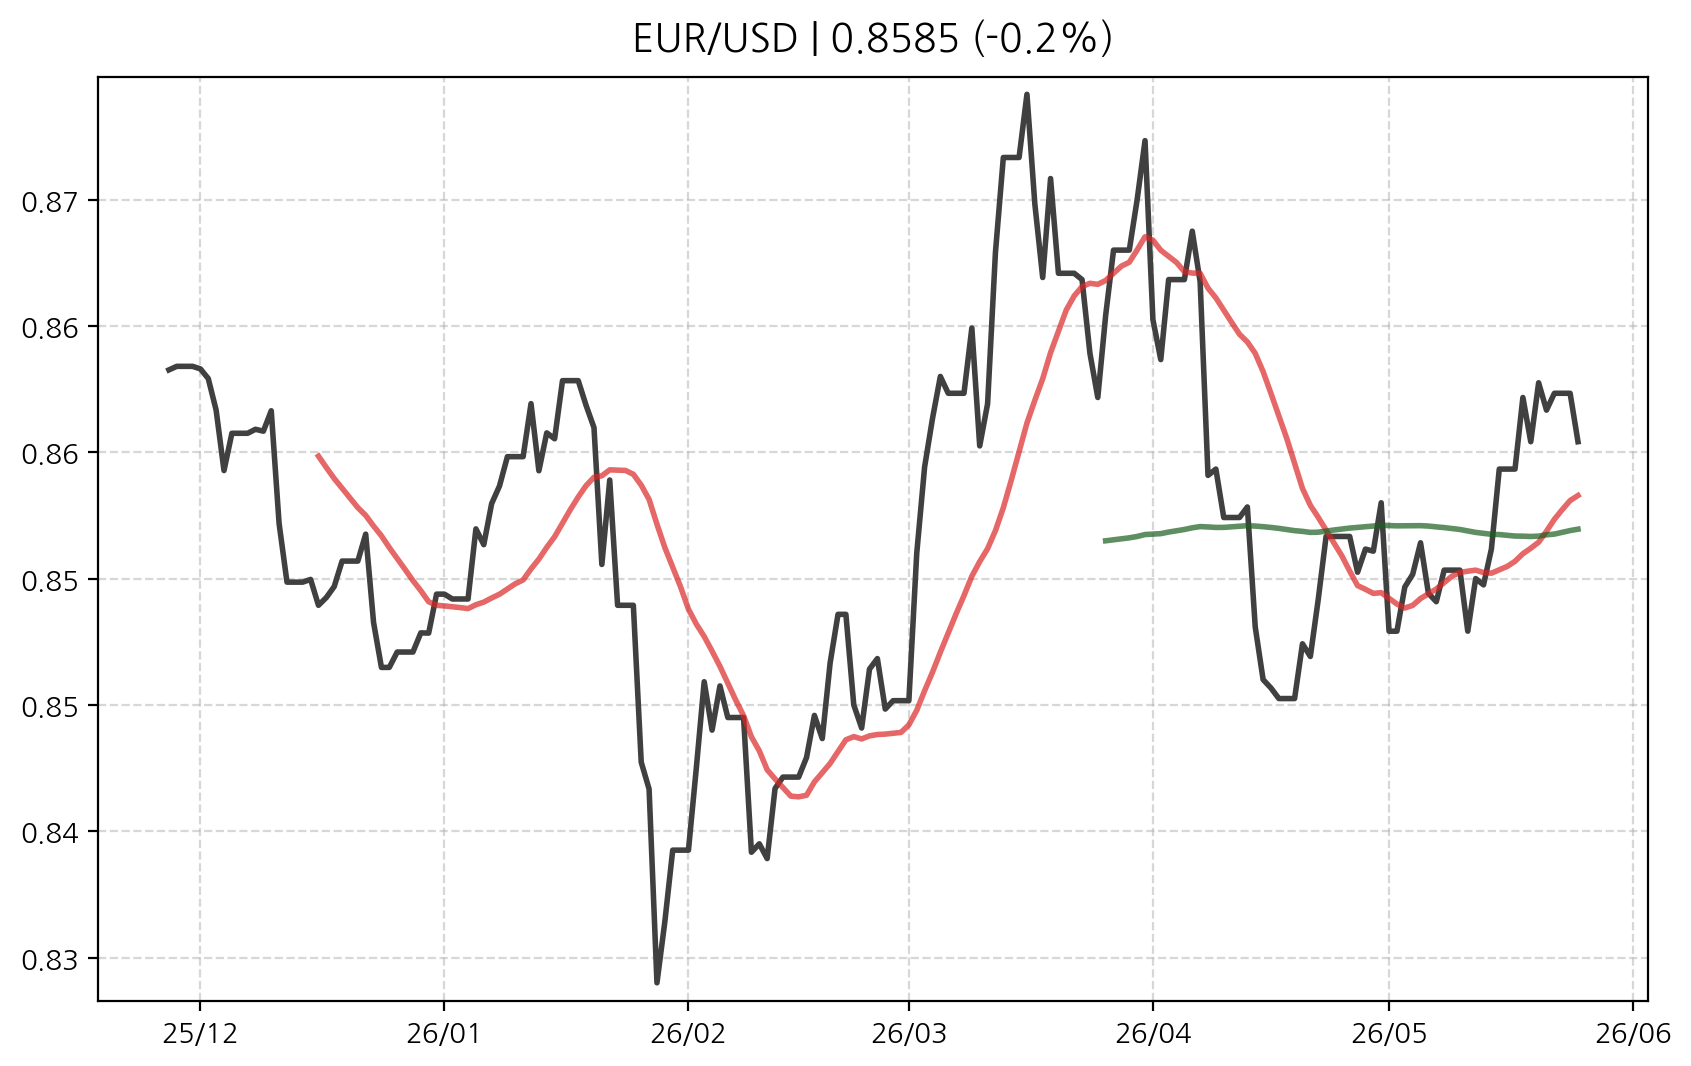
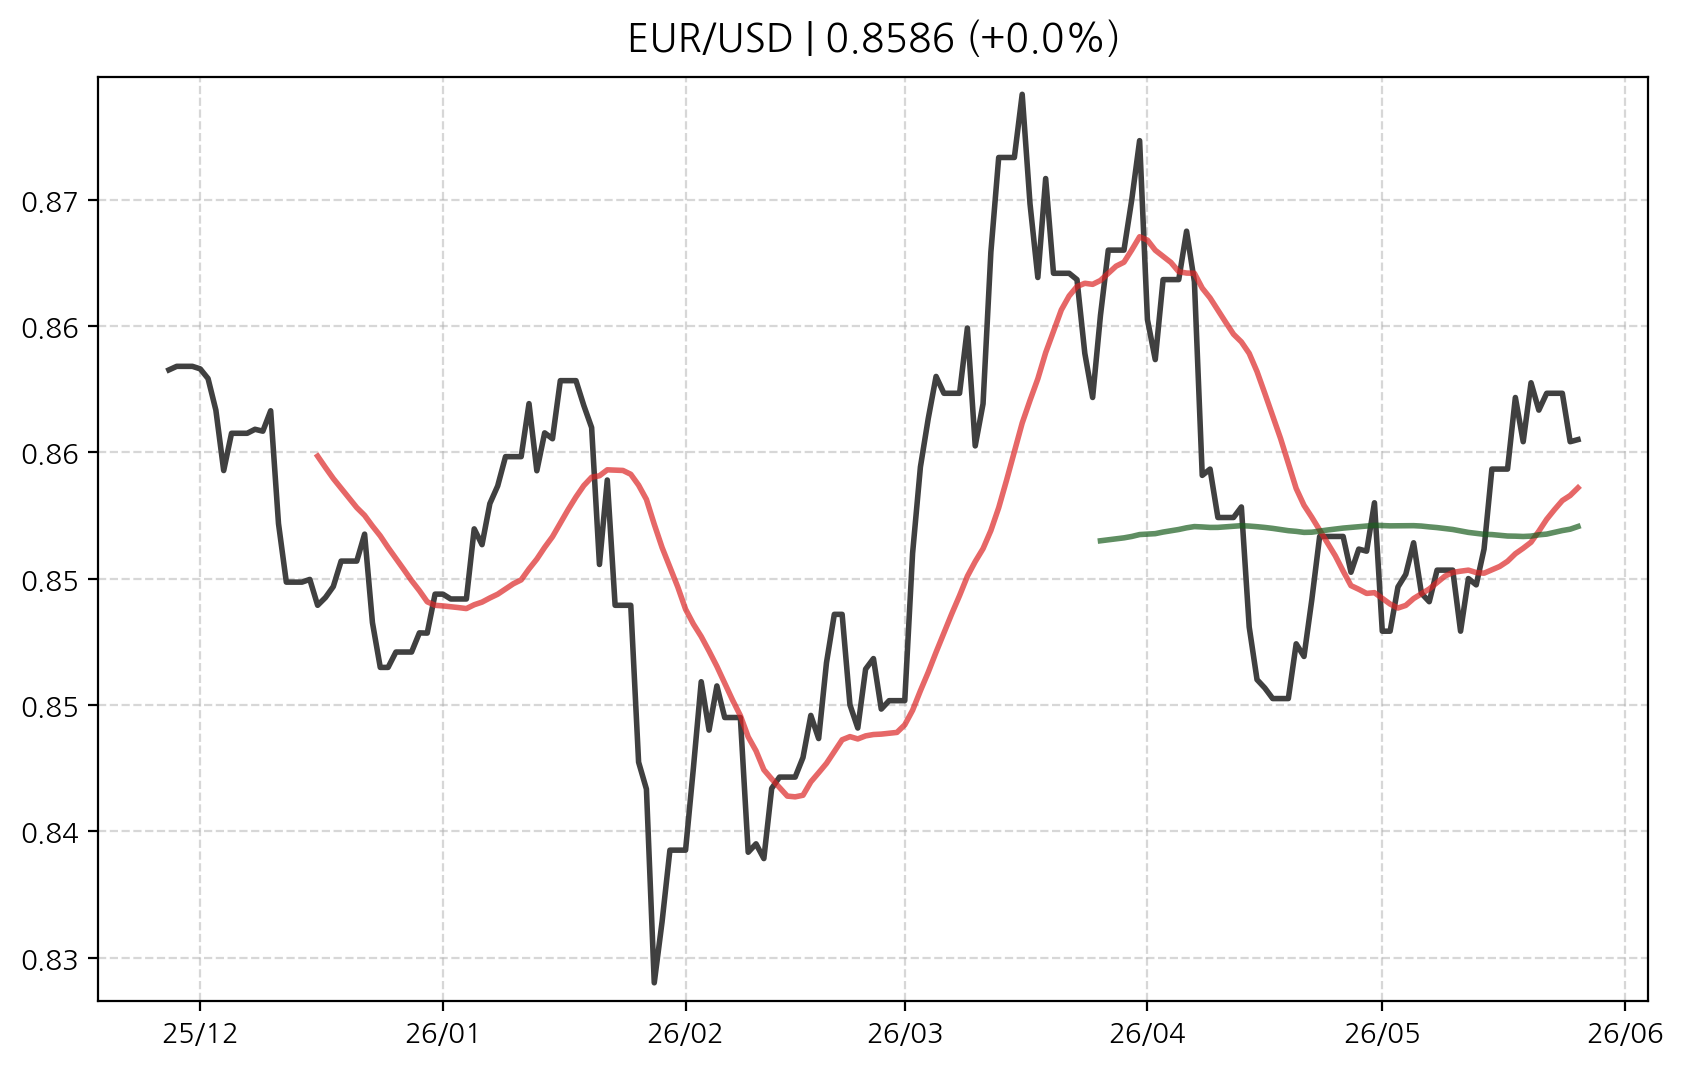
Auto-update: Market data and dashboard [skip ci]

diff --git a/wrap.html b/wrap.html
@@ -193,7 +193,7 @@
     <aside class="sidebar"><a href="index.html" class="sidebar-brand">AoE</a><a href="#" onclick="wrapSwitchTab('dashboard');return false;" data-wrap-tab="dashboard" class="sidebar-link active">Dashboard</a><a href="#" onclick="wrapSwitchTab('order');return false;" data-wrap-tab="order" class="sidebar-link">Order</a><a href="#" onclick="wrapSwitchTab('aum');return false;" data-wrap-tab="aum" class="sidebar-link">AUM</a></aside>
     <header>
         <h1>📈 WRAP</h1>
-        <div class="last-updated">Updated: 2026-05-26 08:16:03 KST</div>
+        <div class="last-updated">Updated: 2026-05-26 08:21:00 KST</div>
     </header>
 
     <div id="wrapPanelDashboard" style="padding-top:24px;">
@@ -705,7 +705,7 @@
                                 <td>005930</td>
                                 <td>삼성전자</td>
                                 <td>반도체</td>
-                                <td>1,710조365억</td>
+                                <td>1,710조364억</td>
                                 <td>30%</td>
                                 <td class="negative">-2.3%</td>
                                 <td class="negative">-7.0</td>
@@ -720,7 +720,7 @@
                                 <td>000660</td>
                                 <td>SK하이닉스</td>
                                 <td>반도체</td>
-                                <td>1,383조3,553억</td>
+                                <td>1,383조3,552억</td>
                                 <td>22%</td>
                                 <td class="positive">+0.1%</td>
                                 <td class="positive">+0.1</td>
@@ -735,7 +735,7 @@
                                 <td>000150</td>
                                 <td>두산</td>
                                 <td>상사,자본재</td>
-                                <td>25조7,968억</td>
+                                <td>25조7,967억</td>
                                 <td>5%</td>
                                 <td class="negative">-0.4%</td>
                                 <td class="negative">-0.2</td>
@@ -750,7 +750,7 @@
                                 <td>295310</td>
                                 <td>에이치브이엠</td>
                                 <td>비철,목재등</td>
-                                <td>1조3,591억</td>
+                                <td>1조3,590억</td>
                                 <td>5%</td>
                                 <td class="positive">+1.9%</td>
                                 <td class="positive">+0.9</td>
@@ -825,7 +825,7 @@
                                 <td>006800</td>
                                 <td>미래에셋증권</td>
                                 <td>증권</td>
-                                <td>37조7,708억</td>
+                                <td>37조7,707억</td>
                                 <td>3%</td>
                                 <td class="positive">+1.5%</td>
                                 <td class="positive">+0.5</td>
@@ -870,7 +870,7 @@
                                 <td>020000</td>
                                 <td>한섬</td>
                                 <td>화장품,의류,완구</td>
-                                <td>5,348억</td>
+                                <td>5,347억</td>
                                 <td>2%</td>
                                 <td class="positive">+1.0%</td>
                                 <td class="positive">+0.2</td>
@@ -997,7 +997,7 @@
                                 <td>005930</td>
                                 <td>삼성전자</td>
                                 <td>반도체</td>
-                                <td>1,710조365억</td>
+                                <td>1,710조364억</td>
                                 <td>30%</td>
                                 <td class="negative">-2.3%</td>
                                 <td class="negative">-7.0</td>
@@ -1012,7 +1012,7 @@
                                 <td>000660</td>
                                 <td>SK하이닉스</td>
                                 <td>반도체</td>
-                                <td>1,383조3,553억</td>
+                                <td>1,383조3,552억</td>
                                 <td>20%</td>
                                 <td class="positive">+0.1%</td>
                                 <td class="positive">+0.1</td>
@@ -1042,7 +1042,7 @@
                                 <td>028260</td>
                                 <td>삼성물산</td>
                                 <td>상사,자본재</td>
-                                <td>68조1,915억</td>
+                                <td>68조1,914억</td>
                                 <td>7%</td>
                                 <td class="positive">+0.5%</td>
                                 <td class="positive">+0.3</td>
@@ -1057,7 +1057,7 @@
                                 <td>295310</td>
                                 <td>에이치브이엠</td>
                                 <td>비철,목재등</td>
-                                <td>1조3,591억</td>
+                                <td>1조3,590억</td>
                                 <td>5%</td>
                                 <td class="positive">+1.9%</td>
                                 <td class="positive">+0.9</td>
@@ -1162,7 +1162,7 @@
                                 <td>020000</td>
                                 <td>한섬</td>
                                 <td>화장품,의류,완구</td>
-                                <td>5,348억</td>
+                                <td>5,347억</td>
                                 <td>2%</td>
                                 <td class="positive">+1.0%</td>
                                 <td class="positive">+0.2</td>

diff --git a/universe.html b/universe.html
@@ -98,7 +98,7 @@
 <header>
     <div style="max-width:1800px;margin:0 auto;padding:0 24px;position:relative;">
         <h1>Universe</h1>
-        <div style="margin-top:10px;color:#6c757d;font-style:italic;font-size:15px;">Updated: 2026-05-26 08:16:03 KST</div>
+        <div style="margin-top:10px;color:#6c757d;font-style:italic;font-size:15px;">Updated: 2026-05-26 08:21:00 KST</div>
         <div style="position:absolute;top:20px;right:24px;display:flex;gap:8px;">
             <a href="https://docs.google.com/spreadsheets/d/1KR9RJN53G-yJtnowQbg5bcAiIBfrkIeNqN_PO2UOCTM/edit" target="_blank" style="background:#6B21A8;color:#fff;font-size:15px;font-weight:600;text-decoration:none;padding:6px 16px;border-radius:8px;">Sheet</a>
         </div>